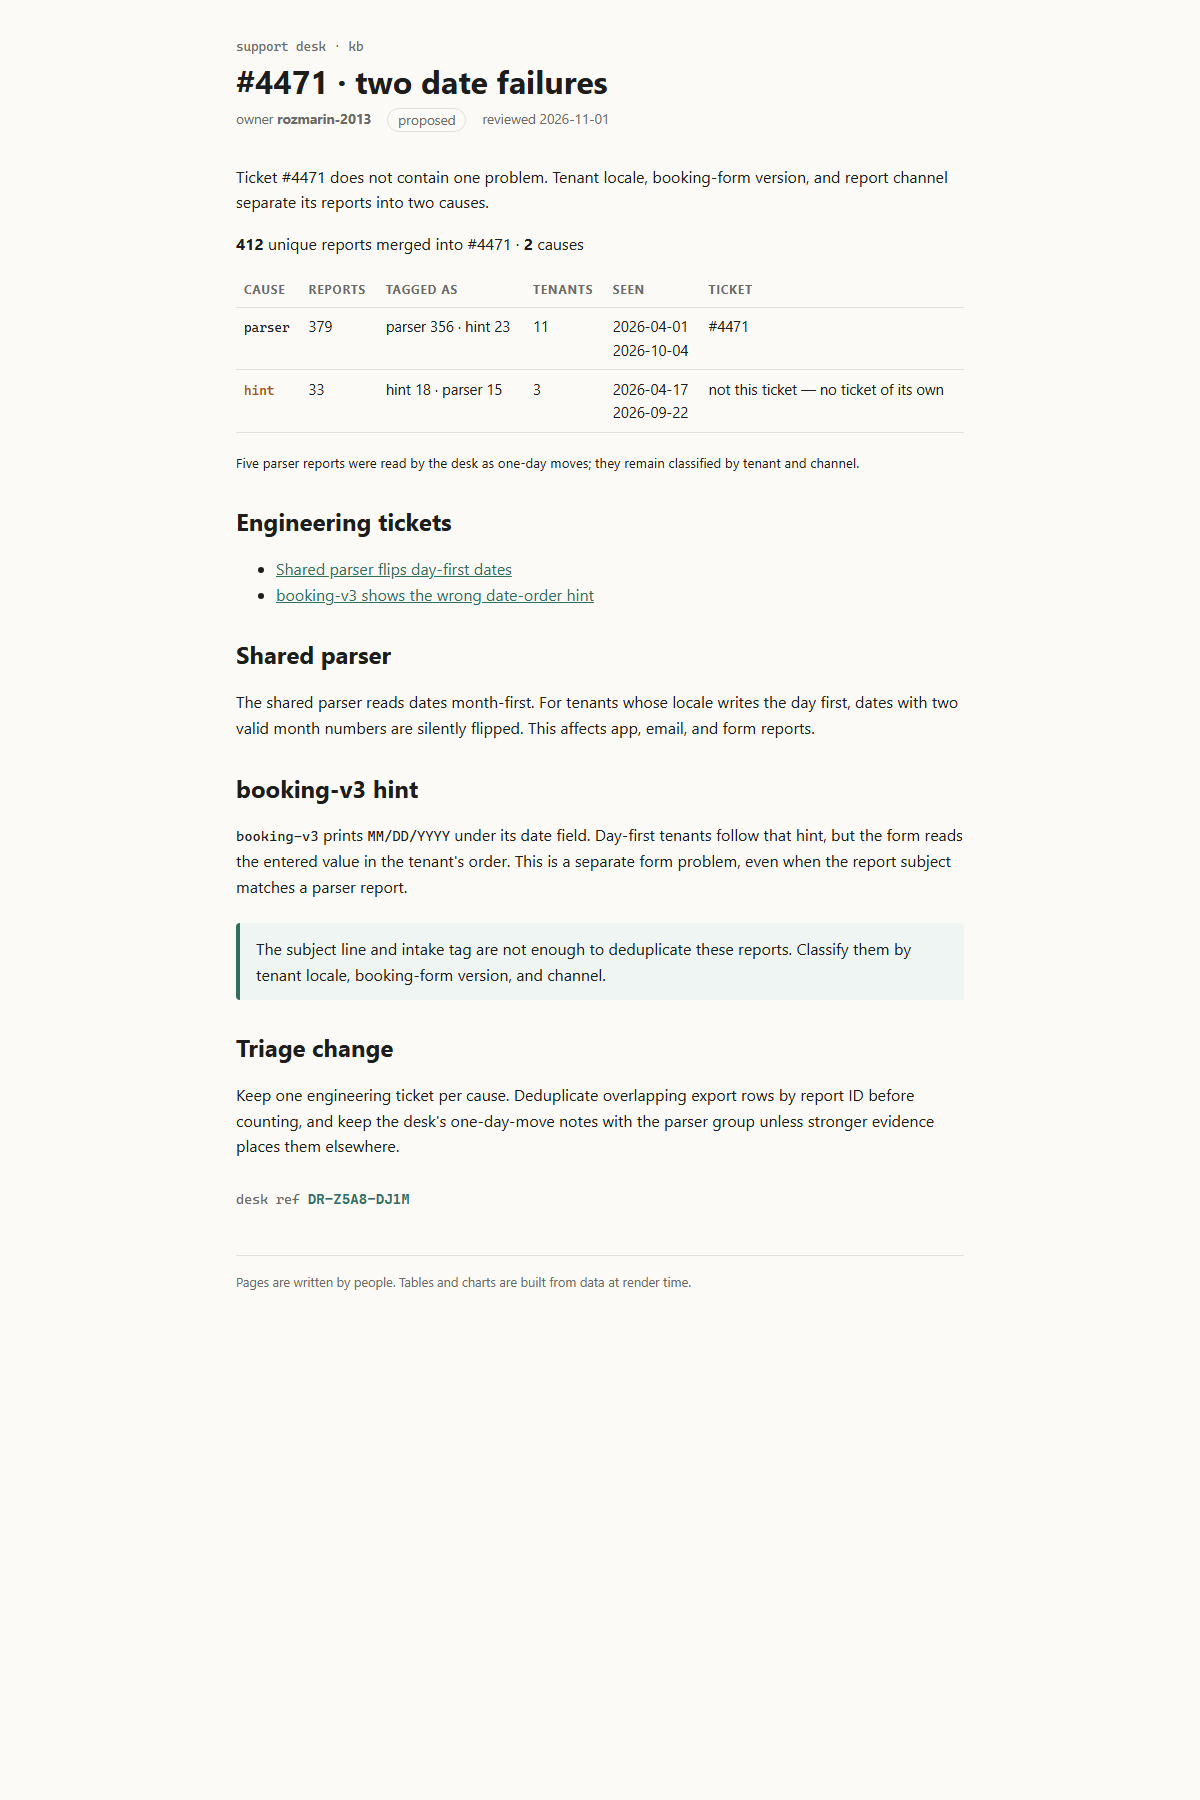
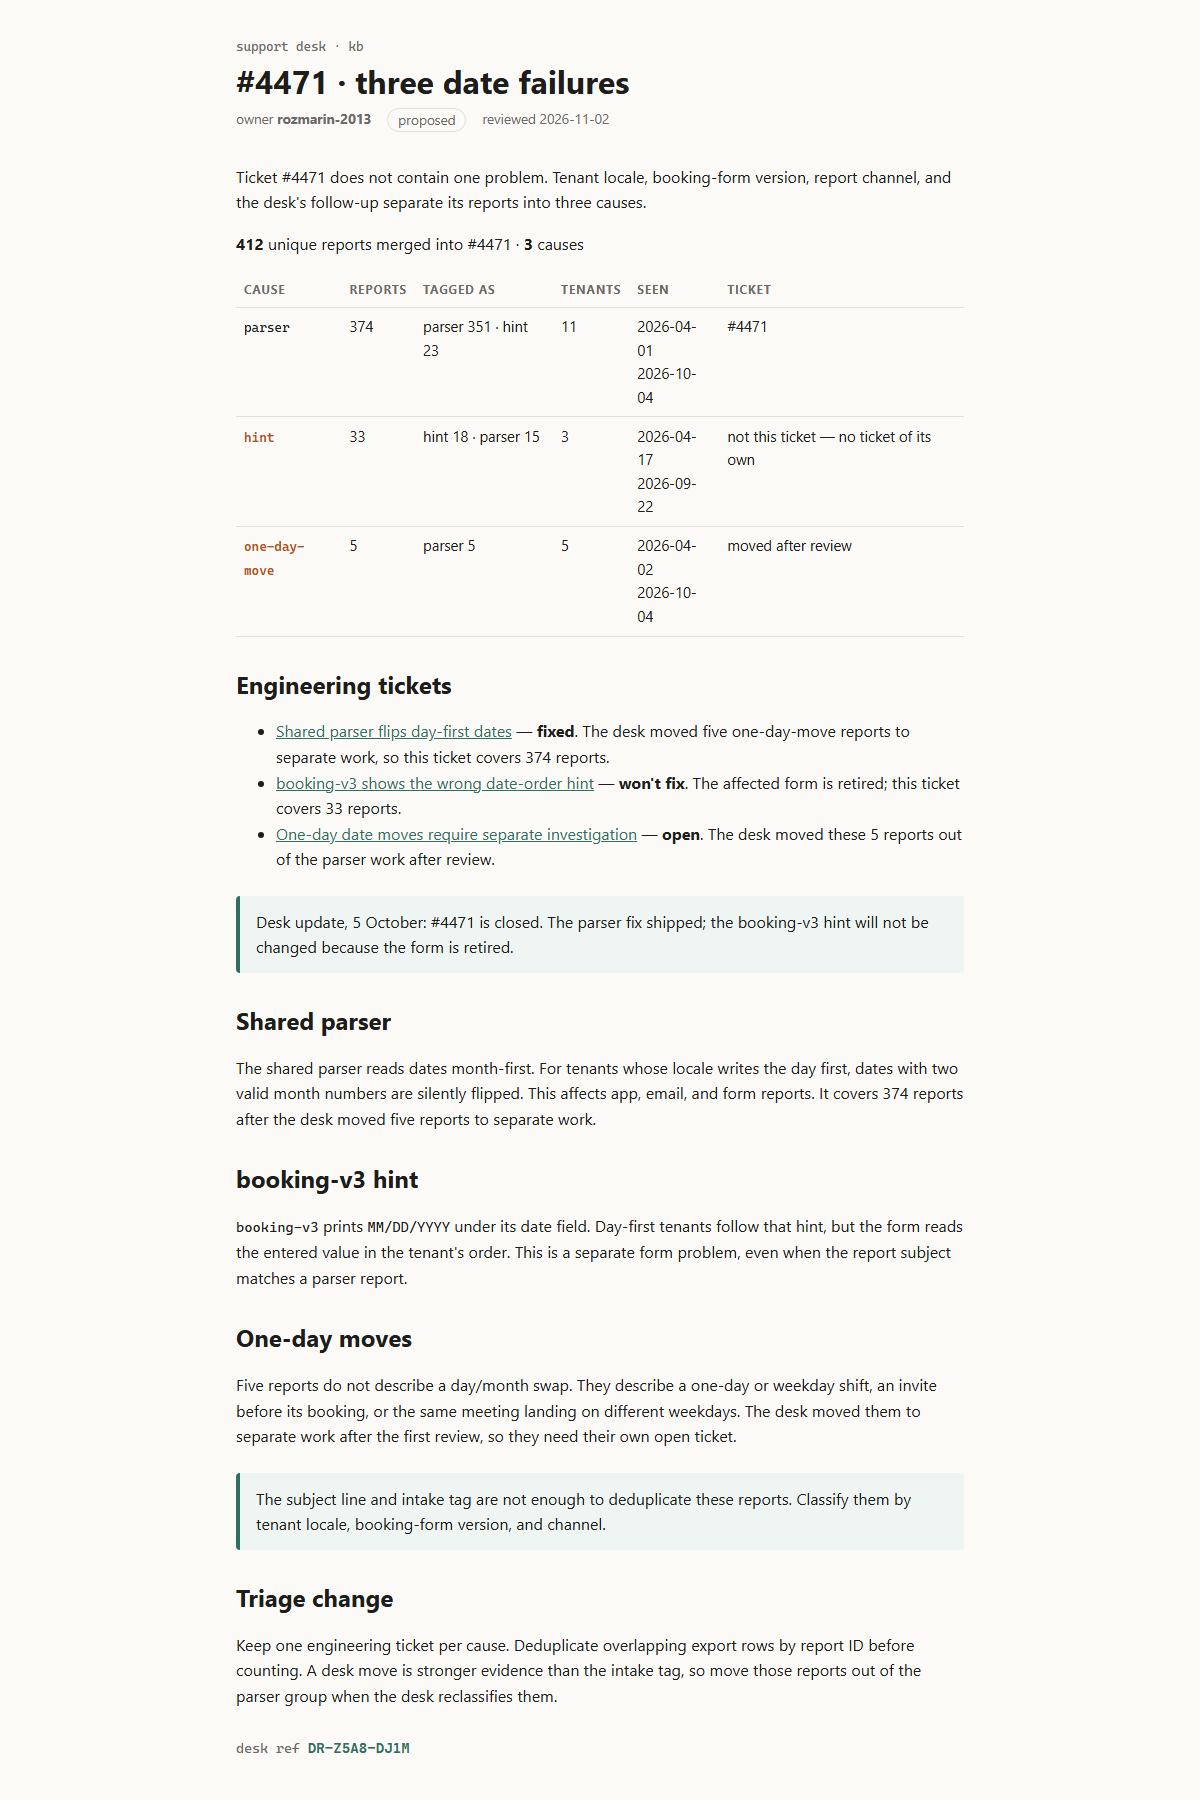
Split one-day moves from ticket 4471

diff --git a/src/routes/kb/incidents/4471/causes/rendered.html b/src/routes/kb/incidents/4471/causes/rendered.html
@@ -3,7 +3,7 @@
 <head>
   <meta charset="utf-8">
   <meta name="viewport" content="width=device-width, initial-scale=1">
-  <title>#4471 · two date failures · support kb</title>
+  <title>#4471 · three date failures · support kb</title>
   <style>
     :root { --bg:#fbfaf7; --fg:#1d1d1b; --muted:#6b6a66; --line:#e3e0d8; --accent:#2f6f5e; --warn:#b4501f; --note:#eef5f2; --mono:ui-monospace,"Cascadia Code",Menlo,monospace; }
     * { box-sizing:border-box; }
@@ -30,41 +30,45 @@
   <div class="kb">
     <header>
       <a class="crumb" href="../../../../">support desk · kb</a>
-      <h1>#4471 · two date failures</h1>
+      <h1>#4471 · three date failures</h1>
       <p class="meta"><span>owner <b>rozmarin-2013</b></span><span class="status">proposed</span><span>reviewed 2026-11-02</span></p>
     </header>
 
     <main>
-      <p>Ticket #4471 does not contain one problem. Tenant locale, booking-form version, and report channel separate its reports into two causes.</p>
+      <p>Ticket #4471 does not contain one problem. Tenant locale, booking-form version, report channel, and the desk's follow-up separate its reports into three causes.</p>
 
-      <p><strong>412</strong> unique reports merged into #4471 · <strong>2</strong> causes</p>
+      <p><strong>412</strong> unique reports merged into #4471 · <strong>3</strong> causes</p>
       <table aria-label="Reports grouped by cause">
         <thead><tr><th>cause</th><th>reports</th><th>tagged as</th><th>tenants</th><th>seen</th><th>ticket</th></tr></thead>
         <tbody>
-          <tr><td><code>parser</code></td><td>379</td><td>parser 356 · hint 23</td><td>11</td><td>2026-04-01<br>2026-10-04</td><td>#4471</td></tr>
+          <tr><td><code>parser</code></td><td>374</td><td>parser 351 · hint 23</td><td>11</td><td>2026-04-01<br>2026-10-04</td><td>#4471</td></tr>
           <tr class="wrong"><td><code>hint</code></td><td>33</td><td>hint 18 · parser 15</td><td>3</td><td>2026-04-17<br>2026-09-22</td><td>not this ticket — no ticket of its own</td></tr>
+          <tr class="wrong"><td><code>one-day-move</code></td><td>5</td><td>parser 5</td><td>5</td><td>2026-04-02<br>2026-10-04</td><td>moved after review</td></tr>
         </tbody>
       </table>
-      <p><small>Five parser reports were read by the desk as one-day moves; they remain classified by tenant and channel.</small></p>
 
       <h2>Engineering tickets</h2>
       <ul>
         <li><a href="https://github.com/rozmarin-2013/mega-s01e03-what-it-shows/issues/1">Shared parser flips day-first dates</a> — <strong>fixed</strong>. The desk moved five one-day-move reports to separate work, so this ticket covers 374 reports.</li>
         <li><a href="https://github.com/rozmarin-2013/mega-s01e03-what-it-shows/issues/2">booking-v3 shows the wrong date-order hint</a> — <strong>won't fix</strong>. The affected form is retired; this ticket covers 33 reports.</li>
+        <li><a href="https://github.com/rozmarin-2013/mega-s01e03-what-it-shows/issues/3">One-day date moves require separate investigation</a> — <strong>open</strong>. The desk moved these 5 reports out of the parser work after review.</li>
       </ul>
 
       <div class="callout">Desk update, 5 October: #4471 is closed. The parser fix shipped; the booking-v3 hint will not be changed because the form is retired.</div>
 
       <h2>Shared parser</h2>
-      <p>The shared parser reads dates month-first. For tenants whose locale writes the day first, dates with two valid month numbers are silently flipped. This affects app, email, and form reports.</p>
+      <p>The shared parser reads dates month-first. For tenants whose locale writes the day first, dates with two valid month numbers are silently flipped. This affects app, email, and form reports. It covers 374 reports after the desk moved five reports to separate work.</p>
 
       <h2>booking-v3 hint</h2>
       <p><code>booking-v3</code> prints <code>MM/DD/YYYY</code> under its date field. Day-first tenants follow that hint, but the form reads the entered value in the tenant's order. This is a separate form problem, even when the report subject matches a parser report.</p>
 
+      <h2>One-day moves</h2>
+      <p>Five reports do not describe a day/month swap. They describe a one-day or weekday shift, an invite before its booking, or the same meeting landing on different weekdays. The desk moved them to separate work after the first review, so they need their own open ticket.</p>
+
       <div class="callout">The subject line and intake tag are not enough to deduplicate these reports. Classify them by tenant locale, booking-form version, and channel.</div>
 
       <h2>Triage change</h2>
-      <p>Keep one engineering ticket per cause. Deduplicate overlapping export rows by report ID before counting, and keep the desk's one-day-move notes with the parser group unless stronger evidence places them elsewhere.</p>
+      <p>Keep one engineering ticket per cause. Deduplicate overlapping export rows by report ID before counting. A desk move is stronger evidence than the intake tag, so move those reports out of the parser group when the desk reclassifies them.</p>
 
       <p class="stamp">desk ref <b>DR-Z5A8-DJ1M</b></p>
     </main>

diff --git a/src/lib/kb/causes.ts b/src/lib/kb/causes.ts
@@ -17,8 +17,8 @@ export type Report = {
 
 export type Tenant = { handle: string; name: string; locale: string; form: 'booking-v2' | 'booking-v3' };
 
-export type Cause = 'parser' | 'hint';
-export const CAUSES: readonly Cause[] = ['parser', 'hint'];
+export type Cause = 'parser' | 'hint' | 'one-day-move';
+export const CAUSES: readonly Cause[] = ['parser', 'hint', 'one-day-move'];
 
 // What each booking form prints under its date field.
 const DATE_HINT: Record<Tenant['form'], string> = {
@@ -37,12 +37,17 @@ export function dayFirst(locale: string): boolean {
 // The shared parser reads every date month first. A day-first tenant's dates come out flipped:
 // that is `parser`. Through booking-v3's form the tenant's people type what the hint tells them,
 // month first, and the form reads it the tenant's way: that is `hint`, a different bug.
-export function causeOf(r: Pick<Report, 'channel'>, t: Tenant | undefined): Cause | null {
+export function causeOf(
+  r: Pick<Report, 'channel'> & { id?: string },
+  t: Tenant | undefined,
+  oneDayMoveIds: readonly string[] = [],
+): Cause | null {
+  if (r.id && oneDayMoveIds.includes(r.id)) return 'one-day-move';
   if (!t || !dayFirst(t.locale)) return null;
   return r.channel === 'form' && DATE_HINT[t.form].startsWith('MM') ? 'hint' : 'parser';
 }
 
-export function sameCause(a: Pick<Report, 'channel'>, ta: Tenant | undefined, b: Pick<Report, 'channel'>, tb: Tenant | undefined): boolean {
+export function sameCause(a: Pick<Report, 'channel'> & { id?: string }, ta: Tenant | undefined, b: Pick<Report, 'channel'> & { id?: string }, tb: Tenant | undefined): boolean {
   const ca = causeOf(a, ta);
   return ca !== null && ca === causeOf(b, tb);
 }
@@ -63,10 +68,14 @@ export type CauseGroup = {
   mergedInto: number[];
 };
 
-export function groupByCause(reports: Report[], tenantOf: (r: Report) => Tenant | undefined): CauseGroup[] {
+export function groupByCause(
+  reports: Report[],
+  tenantOf: (r: Report) => Tenant | undefined,
+  oneDayMoveIds: readonly string[] = [],
+): CauseGroup[] {
   const byCause = new Map<CauseGroup['cause'], Report[]>();
   for (const r of reports) {
-    const cause = causeOf(r, tenantOf(r)) ?? 'unplaced';
+    const cause = causeOf(r, tenantOf(r), oneDayMoveIds) ?? 'unplaced';
     byCause.set(cause, [...(byCause.get(cause) ?? []), r]);
   }
   return [...byCause.entries()]

diff --git a/src/lib/kb/CauseTable.svelte b/src/lib/kb/CauseTable.svelte
@@ -1,13 +1,13 @@
 <script lang="ts">
   import reports from '#lib/data/reports-4471.json';
   import notes from '#lib/data/desk-notes.json';
-  import { groupByCause, readAs, ticketCause, uniqueById, type Report } from '#lib/kb/causes';
+  import { groupByCause, ticketCause, uniqueById, type Report } from '#lib/kb/causes';
   import { tenantOf } from '#lib/kb/locales';
 
   let { ticket }: { ticket: number } = $props();
 
   const merged = $derived(uniqueById(reports as Report[]).filter((r) => r.mergedInto === ticket));
-  const groups = $derived(groupByCause(merged, tenantOf));
+  const groups = $derived(groupByCause(merged, tenantOf, notes.oneDayMove));
   const owner = $derived(ticketCause(groups, ticket));
   const tags = (g: { taggedAs: Record<string, number> }) =>
     Object.entries(g.taggedAs)
@@ -34,23 +34,15 @@
         <td class="tags">{tags(g)}</td>
         <td>{g.tenants}</td>
         <td>{g.firstSeen} → {g.lastSeen}</td>
-        <td>{g.cause === owner ? `#${ticket}` : 'not this ticket — no ticket of its own'}</td>
+        <td>{g.cause === owner ? `#${ticket}` : g.cause === 'one-day-move' ? 'moved after review' : 'not this ticket — no ticket of its own'}</td>
       </tr>
     {/each}
   </tbody>
 </table>
 
-{#each groups as g (g.cause)}
-  {@const moved = readAs(g, notes.oneDayMove)}
-  {#if moved}
-    <p class="note">{moved} reports read as a one-day move; filed under <code>{g.cause}</code> by tenant.</p>
-  {/if}
-{/each}
-
 <style>
   .sum { font-size: 1.1rem; }
   .tags { color: var(--muted); font-size: 0.85em; }
-  .note { color: var(--muted); font-size: 0.85em; }
   .wrong td { background: var(--warn-bg); }
   .wrong td:last-child { color: var(--warn); font-weight: 600; }
 </style>
